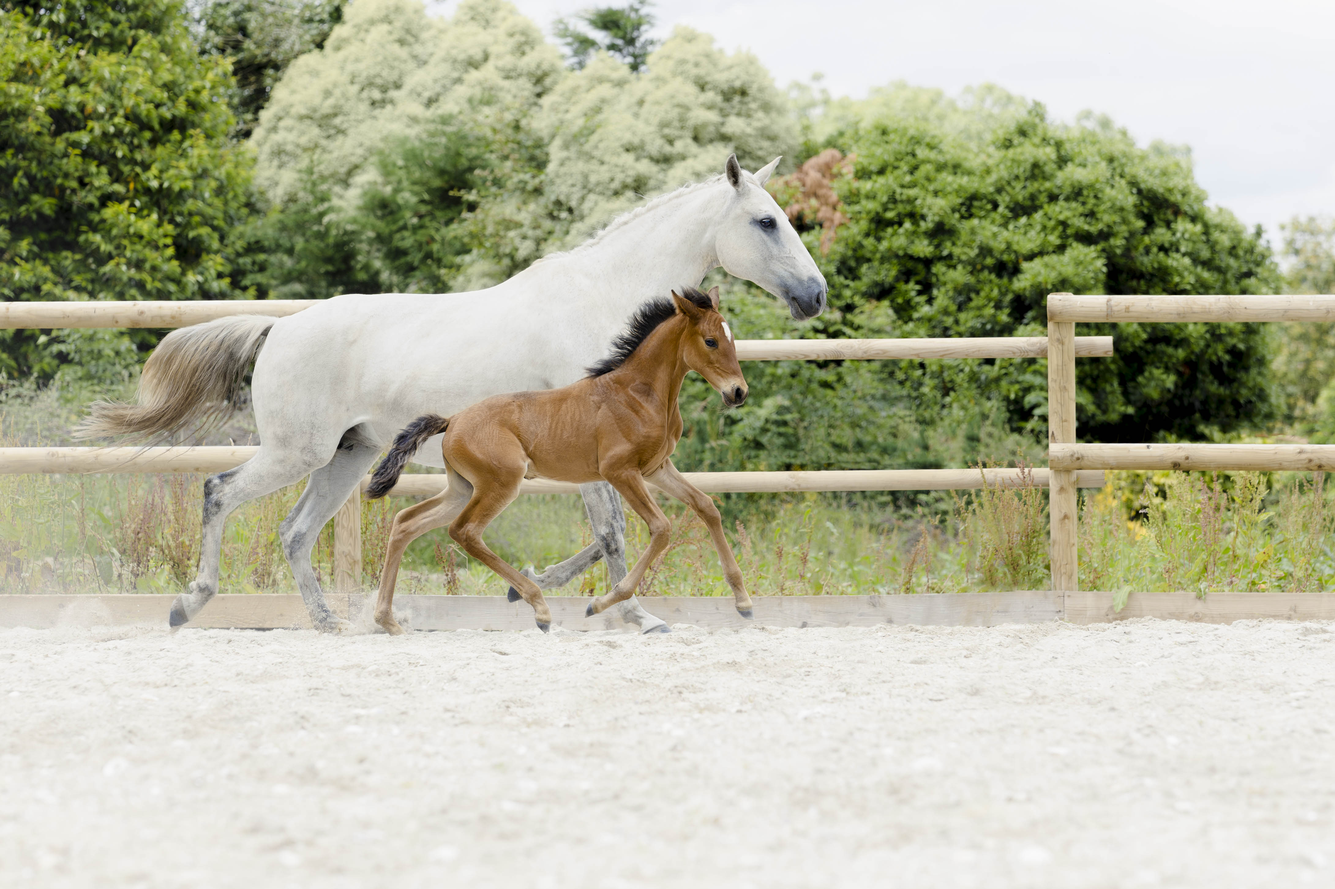
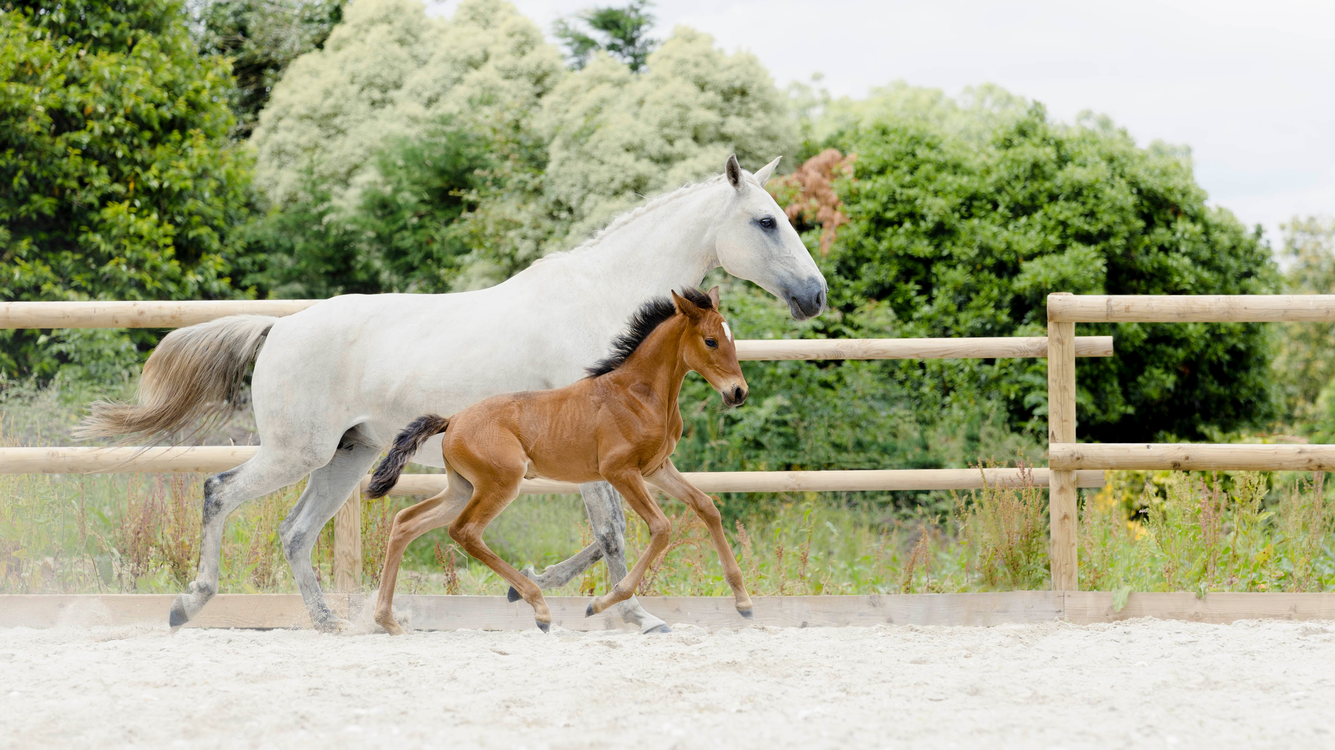
add link to chevaux sections in homepage

diff --git a/app/page.tsx b/app/page.tsx
@@ -5,18 +5,22 @@ export default function Home() {
   return (
     <div>
       <section className={styles["hero-section"]}>
-        <div className={styles["hero-section"]}>
-          <div className={styles["hero-image"]}>
-            <img className={styles["hero-img"]} src="/assets/images/Boheme-1.jpg" alt="Élevage de Linlouet" />
-          </div>
-          <div className={styles["hero-text"]}>
-            <h1>Bienvenue à Linlouët</h1>
-            <h2>Elever des Pur-Sangs Lusitaniens en Bretagne, entre terre, mer et traditions vivantes.</h2>
-            <div className={styles["hero-button"]}>
-              <Link href="/contact" className={styles["hero-button"]}>
-                Préparer une visite
-              </Link>
-            </div>
+        <div className={styles["hero-image"]}>
+          <img
+            className={styles["hero-img"]}
+            src="/assets/images/Boheme-1.jpg"
+            alt="Élevage de Linlouet"
+          />
+        </div>
+        <div className={styles["hero-text"]}>
+          <h1>Bienvenue à Linlouët</h1>
+          <h2>
+            Elever des Pur-Sangs Lusitaniens en Bretagne, entre terre, mer et traditions vivantes.
+          </h2>
+          <div className={styles["hero-button"]}>
+            <Link href="/contact" className={styles["hero-button"]}>
+              Préparer une visite
+            </Link>
           </div>
         </div>
       </section>
@@ -27,12 +31,26 @@ export default function Home() {
         </div>
         <div className={styles["about-content"]}>
           <div className={styles["about-image"]}>
-            <img className={styles["about-img"]} src="/assets/images/photo_portrait_about.jpg" alt="Portrait des éleveurs de Linlouet" />
+            <img
+              className={styles["about-img"]}
+              src="/assets/images/photo_portrait_about.jpg"
+              alt="Portrait des éleveurs de Linlouet"
+            />
           </div>
           <div className={styles["about-text"]}>
             <p className={styles["about-text-intro"]}>
-              Lorem ipsum dolor sit amet, consectetur adipiscing elit. Proin sed pretium enim, et gravida turpis. Donec eleifend quam et tellus semper laoreet. Proin nec tempor lorem, non tempus nulla. Nunc accumsan nisi eget mi eleifend euismod. Vestibulum sed imperdiet dolor. Aliquam gravida, ante in sollicitudin semper, turpis ante interdum nisi, vitae euismod augue eros sed lacus. Ut pharetra efficitur dictum. Morbi auctor sem quis elit ullamcorper porta. In a aliquet orci. Integer eleifend ipsum lorem, tincidunt venenatis ante finibus sed. Maecenas accumsan tincidunt justo, non feugiat tortor ullamcorper et. Vivamus a vulputate sem. Cras a quam scelerisque, dapibus mi vel, aliquam est. Aenean semper rutrum felis. Vestibulum cursus tortor malesuada eros finibus, nec tincidunt purus
-              maximus. Class aptent taciti sociosqu ad litora torquent per conubia nostra, per inceptos himenaeos. Pellentesque id lorem id nunc consequat imperdiet eget cursus elit. Nam id arcu rhoncus, bibendum nulla quis, egestas urna.
+              Lorem ipsum dolor sit amet, consectetur adipiscing elit. Proin sed pretium enim, et
+              gravida turpis. Donec eleifend quam et tellus semper laoreet. Proin nec tempor lorem,
+              non tempus nulla. Nunc accumsan nisi eget mi eleifend euismod. Vestibulum sed
+              imperdiet dolor. Aliquam gravida, ante in sollicitudin semper, turpis ante interdum
+              nisi, vitae euismod augue eros sed lacus. Ut pharetra efficitur dictum. Morbi auctor
+              sem quis elit ullamcorper porta. In a aliquet orci. Integer eleifend ipsum lorem,
+              tincidunt venenatis ante finibus sed. Maecenas accumsan tincidunt justo, non feugiat
+              tortor ullamcorper et. Vivamus a vulputate sem. Cras a quam scelerisque, dapibus mi
+              vel, aliquam est. Aenean semper rutrum felis. Vestibulum cursus tortor malesuada eros
+              finibus, nec tincidunt purus maximus. Class aptent taciti sociosqu ad litora torquent
+              per conubia nostra, per inceptos himenaeos. Pellentesque id lorem id nunc consequat
+              imperdiet eget cursus elit. Nam id arcu rhoncus, bibendum nulla quis, egestas urna.
             </p>
           </div>
         </div>
@@ -41,7 +59,10 @@ export default function Home() {
       <section className={styles["horses-section"]}>
         <div className={styles["horses-title"]}>
           <h2>Nos chevaux</h2>
-          <p>Lorem ipsum dolor sit amet, consectetur adipiscing elit. Proin sed pretium enim, et gravida turpis.</p>
+          <p>
+            Lorem ipsum dolor sit amet, consectetur adipiscing elit. Proin sed pretium enim, et
+            gravida turpis.
+          </p>
         </div>
         <div className={styles["horses-cards"]}>
           <div className={styles["horse-item"]}>
@@ -50,8 +71,14 @@ export default function Home() {
             </div>
             <div className={styles["horse-card"]}>
               <div className={styles["horse-image"]}>
-                <img className={styles["horse-img"]} src="/assets/images/horses/Pouliniere-Boheme/photo_boheme.jpg" alt="Photo poulinière Bohême" />
-                <span className={styles["horses-overlay"]}>Découvrir</span>
+                <img
+                  className={styles["horse-img"]}
+                  src="/assets/images/horses/Pouliniere-Boheme/photo_boheme.jpg"
+                  alt="Photo poulinière Bohême"
+                />
+                <a href="/nos-chevaux#poulinieres">
+                  <span className={styles["horses-overlay"]}>Découvrir</span>
+                </a>
               </div>
             </div>
           </div>
@@ -61,8 +88,14 @@ export default function Home() {
             </div>
             <div className={styles["horse-card"]}>
               <div className={styles["horse-image"]}>
-                <img className={styles["horse-img"]} src="/assets/images/horses/photo_etalon_ofensor.jpg" alt="Cheval 1" />
-                <span className={styles["horses-overlay"]}>Découvrir</span>
+                <img
+                  className={styles["horse-img"]}
+                  src="/assets/images/horses/photo_etalon_ofensor.jpg"
+                  alt="Cheval 1"
+                />
+                <a href="/nos-chevaux#etalons">
+                  <span className={styles["horses-overlay"]}>Découvrir</span>
+                </a>
               </div>
             </div>
           </div>
@@ -72,8 +105,14 @@ export default function Home() {
             </div>
             <div className={styles["horse-card"]}>
               <div className={styles["horse-image"]}>
-                <img className={styles["horse-img"]} src="/assets/images/horses/Poulain-Xaman/photo_xaman.jpg" alt="Cheval 1" />
-                <span className={styles["horses-overlay"]}>Découvrir</span>
+                <img
+                  className={styles["horse-img"]}
+                  src="/assets/images/horses/Poulain-Xaman/photo_xaman.jpg"
+                  alt="Cheval 1"
+                />
+                <a href="/nos-chevaux#poulains">
+                  <span className={styles["horses-overlay"]}>Découvrir</span>
+                </a>
               </div>
             </div>
           </div>
@@ -84,15 +123,27 @@ export default function Home() {
         <div className={styles["news-content"]}>
           <h2>Actualités de Linlouët</h2>
           <div className={styles["news-img-container"]}>
-            <img className={styles["news-img"]} src="/assets/images/horses/Poulain-Unice/photo_unice_cabree.jpg" alt="Photo Poulain Unice dans son enclos" />
+            <img
+              className={styles["news-img"]}
+              src="/assets/images/horses/Poulain-Unice/photo_unice_cabree.jpg"
+              alt="Photo Poulain Unice dans son enclos"
+            />
             <div className={styles["social-links"]}>
               <div className={styles["social-link"]}>
                 <p>Elevage de Linlouët</p>
-                <img className={`${styles["social-icon"]} ${styles["social-icon-facebook"]}`} src="/assets/images/social_medias/logo-facebook.png" alt="Lien vers la page Facebook de l'élevage" />
+                <img
+                  className={`${styles["social-icon"]} ${styles["social-icon-facebook"]}`}
+                  src="/assets/images/social_medias/logo-facebook.png"
+                  alt="Lien vers la page Facebook de l'élevage"
+                />
               </div>
               <div className={styles["social-link"]}>
                 <p>elevagedelinlouet</p>
-                <img className={`${styles["social-icon"]} ${styles["social-icon-instagram"]}`} src="/assets/images/social_medias/logo-instagram.png" alt="Lien vers la page Instagram de l'élevage" />
+                <img
+                  className={`${styles["social-icon"]} ${styles["social-icon-instagram"]}`}
+                  src="/assets/images/social_medias/logo-instagram.png"
+                  alt="Lien vers la page Instagram de l'élevage"
+                />
               </div>
             </div>
           </div>
@@ -102,9 +153,16 @@ export default function Home() {
       <section className={styles["contact-section"]}>
         <div className={styles["contact-content"]}>
           <h2>Venir à Linlouët</h2>
-          <p>Lorem ipsum dolor sit amet, consectetur adipiscing elit. Proin nec tempor lorem, non tempus nulla. Nunc accumsan nisi eget mi eleifend euismod.</p>
+          <p>
+            Lorem ipsum dolor sit amet, consectetur adipiscing elit. Proin nec tempor lorem, non
+            tempus nulla. Nunc accumsan nisi eget mi eleifend euismod.
+          </p>
           <div className={styles["contact-image-container"]}>
-            <img className={styles["contact-img"]} src="/assets/images/contact/st michel.jpg" alt="Portrait des éleveurs de Linlouet" />
+            <img
+              className={styles["contact-img"]}
+              src="/assets/images/contact/st michel.jpg"
+              alt="Portrait des éleveurs de Linlouet"
+            />
           </div>
           <Link href="/contact" className={styles["contact-button"]}>
             Préparer une visite

diff --git a/app/nos-chevaux/page.tsx b/app/nos-chevaux/page.tsx
@@ -40,7 +40,9 @@ export default function Horses() {
       />
 
       <section className={`${styles["horse-group"]} ${styles["mares-section"]}`}>
-        <h2 className={styles["horse-group-title"]}>Nos poulinières</h2>
+        <h2 className={styles["horse-group-title"]} id="poulinieres">
+          Nos poulinières
+        </h2>
         <div className={styles["horse-card-grid"]}>
           {mares.map((horse) => (
             <HorseCard key={horse.slug} horse={horse} />
@@ -49,7 +51,9 @@ export default function Horses() {
       </section>
 
       <section className={`${styles["horse-group"]} ${styles["stallions-section"]}`}>
-        <h2 className={styles["horse-group-title"]}>Les étalons sélectionnés</h2>
+        <h2 className={styles["horse-group-title"]} id="etalons">
+          Les étalons sélectionnés
+        </h2>
         <div className={styles["horse-card-grid"]}>
           {stallions.map((horse) => (
             <HorseCard key={horse.slug} horse={horse} />
@@ -58,7 +62,9 @@ export default function Horses() {
       </section>
 
       <section className={`${styles["horse-group"]} ${styles["foals-section"]}`}>
-        <h2 className={styles["horse-group-title"]}>Nos poulains</h2>
+        <h2 className={styles["horse-group-title"]} id="poulains">
+          Nos poulains
+        </h2>
         <div className={styles["horse-card-grid"]}>
           {foals.map((horse) => (
             <HorseCard key={horse.slug} horse={horse} />

diff --git a/components/Header/Header.module.css b/components/Header/Header.module.css
@@ -11,7 +11,7 @@
 .header-content {
   position: relative;
   width: 100%;
-  height: 120px;
+  height: var(--header-height);
   max-width: 1800px;
   margin: 0 auto;
   display: flex;

diff --git a/app/nos-chevaux/page.module.css b/app/nos-chevaux/page.module.css
@@ -24,6 +24,7 @@
   margin: 0 auto 32px;
   color: var(--accent-text);
   text-align: center;
+  scroll-margin-top: var(--header-height);
 }
 
 .stallions-section .horse-group-title {

diff --git a/components/PageHero/PageHero.module.css b/components/PageHero/PageHero.module.css
@@ -2,7 +2,7 @@
   position: relative;
   width: 100%;
   max-width: 1800px;
-  height: 500px;
+  height: 60vh;
   margin: 0 auto;
   overflow: hidden;
 }

diff --git a/app/globals.css b/app/globals.css
@@ -18,6 +18,8 @@
   --button-bg: #7a5c46;
   --hover-bg: #233127;
   --contact-btn-bg: #dccdb8;
+
+  --header-height: 120px;
 }
 
 * {
